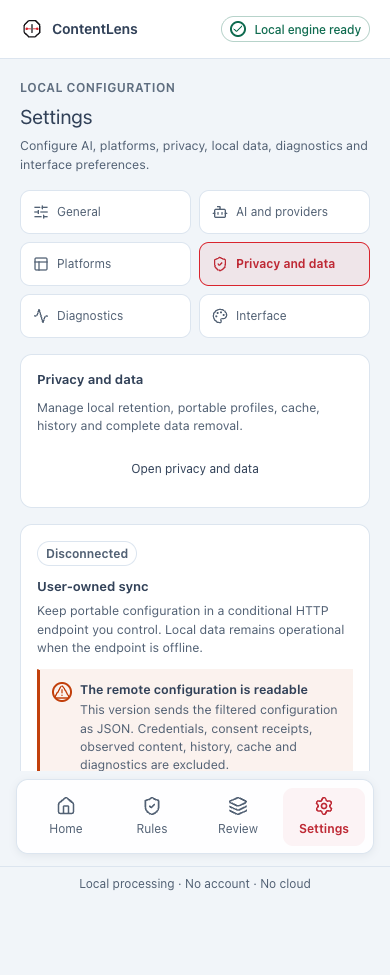
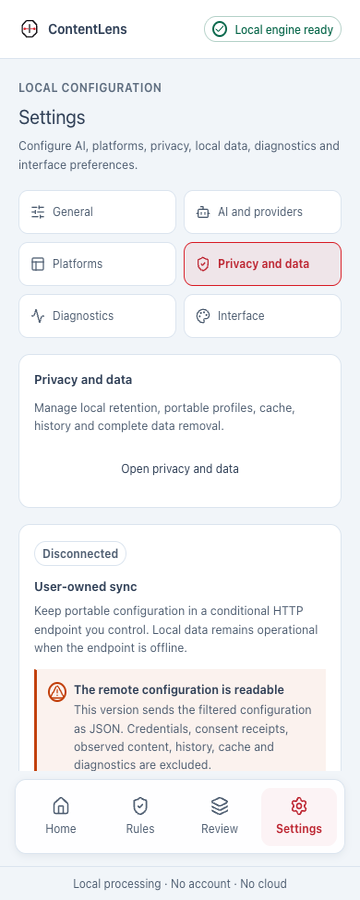
docs: align and reveal readme images

diff --git a/README.md b/README.md
@@ -44,14 +44,11 @@ inactive until you enable it and approve its origin.
 
 ![ContentLens filtering a Reddit home feed in dark mode with a reversible placeholder and the rule preview open](docs/assets/readme/reddit-dark.webp)
 
-<details>
-<summary><strong>Open the LinkedIn and X gallery</strong></summary>
+### LinkedIn and X
 
 ![ContentLens filtering a LinkedIn feed in light mode with a reversible placeholder and the rule preview open](docs/assets/readme/linkedin-light.webp)
 
 ![ContentLens filtering the X For You feed in dark mode with a reversible placeholder and the rule preview open](docs/assets/readme/x-dark.webp)
-
-</details>
 
 ## Install
 
@@ -125,7 +122,7 @@ remain available from the local review history.
       <img src="docs/assets/readme/rule-preview.webp" width="360" alt="ContentLens preview showing a matching item and a protected exception">
     </td>
     <td align="center">
-      <img src="docs/assets/readme/privacy-controls.webp" width="390" alt="ContentLens privacy and local data settings">
+      <img src="docs/assets/readme/privacy-controls.webp" width="360" alt="ContentLens privacy and local data settings">
     </td>
   </tr>
   <tr>
@@ -134,12 +131,9 @@ remain available from the local review history.
   </tr>
 </table>
 
-<details>
-<summary><strong>Open the complete desktop workflow</strong></summary>
+### Complete desktop workflow
 
 ![ContentLens rule creation, dry run, local overview and privacy screens shown as four equal desktop browser states](docs/assets/readme/extension-workflow-3d.webp)
-
-</details>
 
 ## One extension, every control
 
@@ -147,12 +141,9 @@ Everyday actions stay in the browser panel. The wider extension settings expose
 platform access, optional providers, privacy, diagnostics, exports and portable
 sources without hiding the underlying state.
 
-<details>
-<summary><strong>Open the desktop control center</strong></summary>
+### Desktop control center
 
 ![ContentLens desktop extension settings with platform, privacy, export and RSS controls shown as layered interface cards](docs/assets/readme/extension-control-center-3d.webp)
-
-</details>
 
 ## How it works
 
